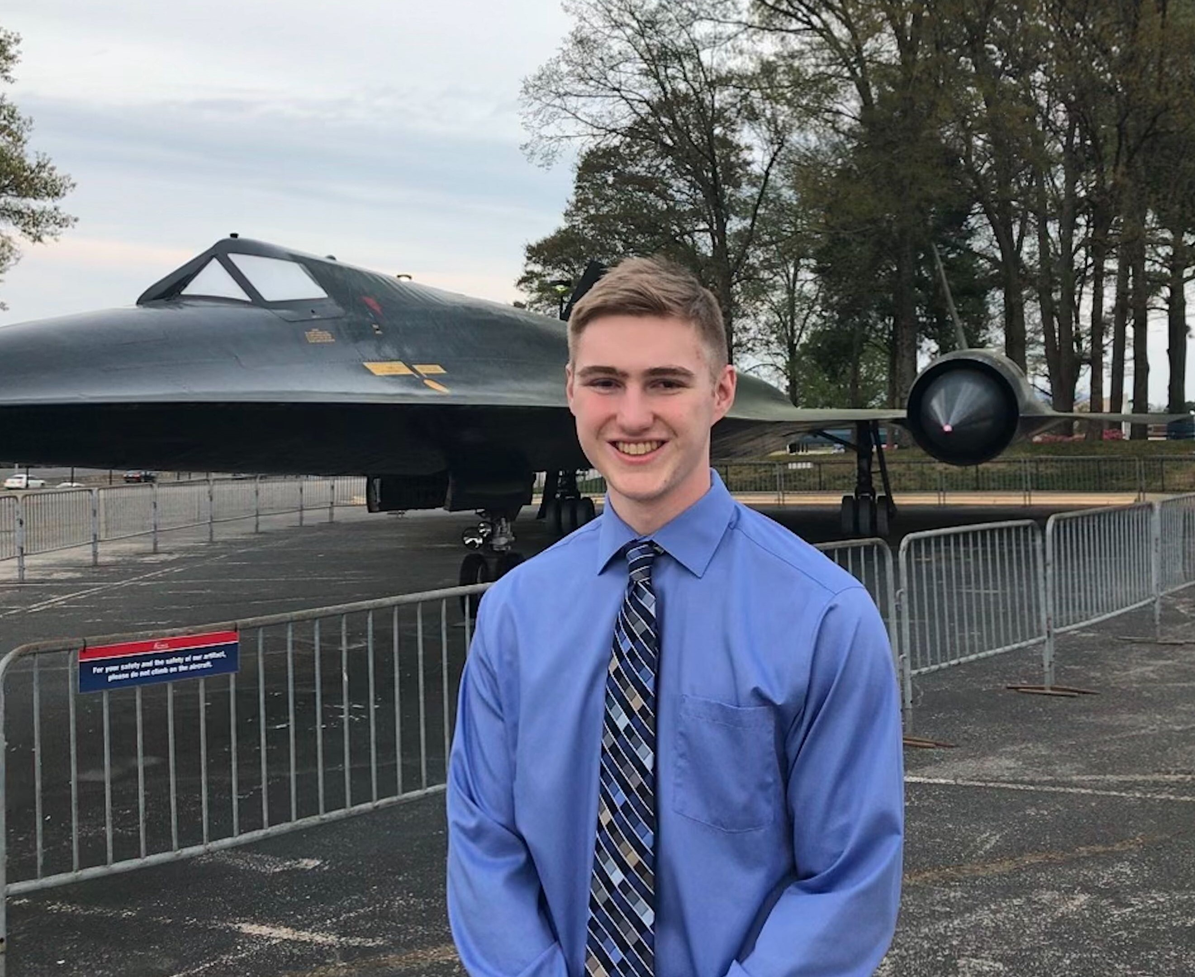
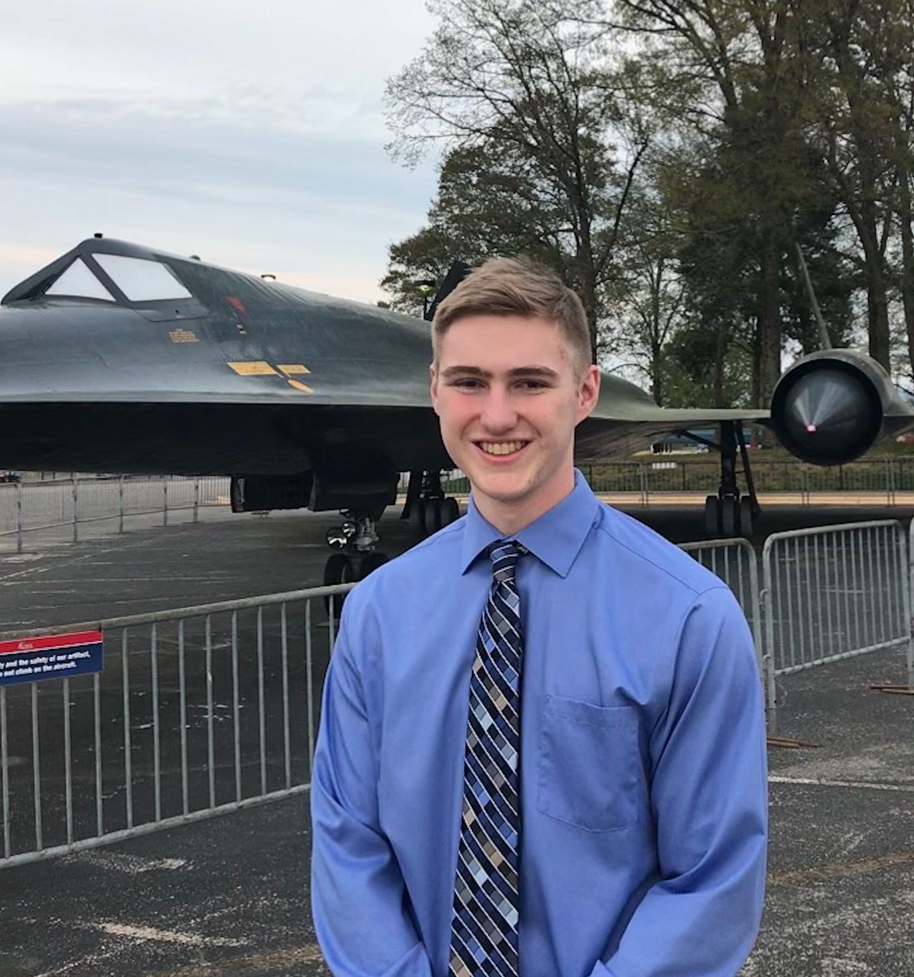
Played around with image sizes

diff --git a/src/body/team/assets/style_team.css b/src/body/team/assets/style_team.css
@@ -1,7 +1,8 @@
 .member > div > img {
-    height: 200px;
-    width: 200px;
+    height: 300px;
+    /* width: 200px; */
     margin-right: 30px;
+    overflow: hidden;
 }
 
 .member {
@@ -21,7 +22,7 @@
 }
 
 .member > .pict {
-    flex: 1 1 220 px;
+    flex: 1 1 220;
 }
 
 .member > .info {
